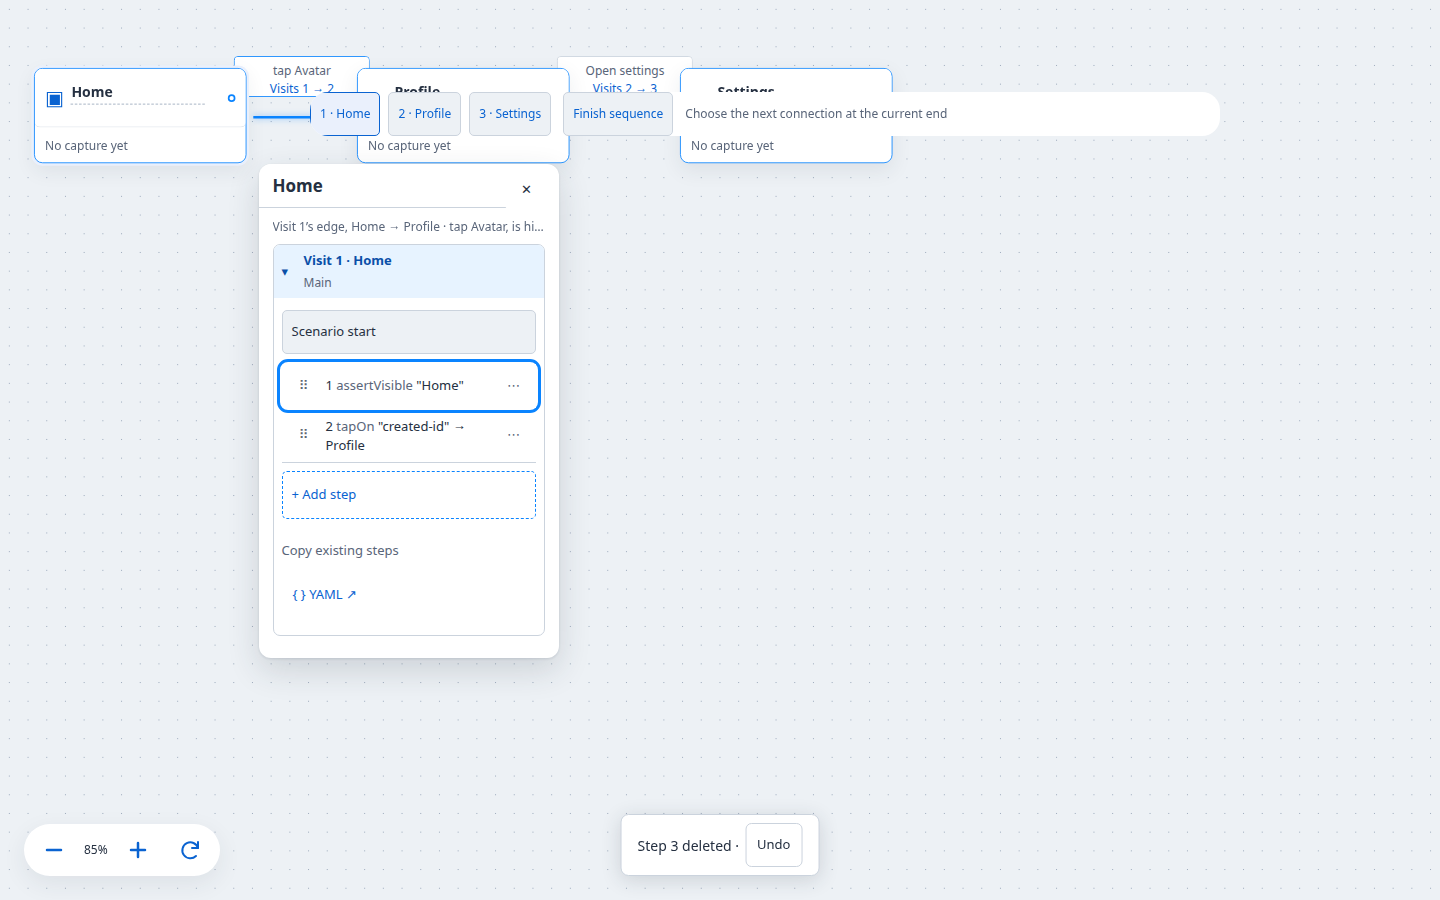
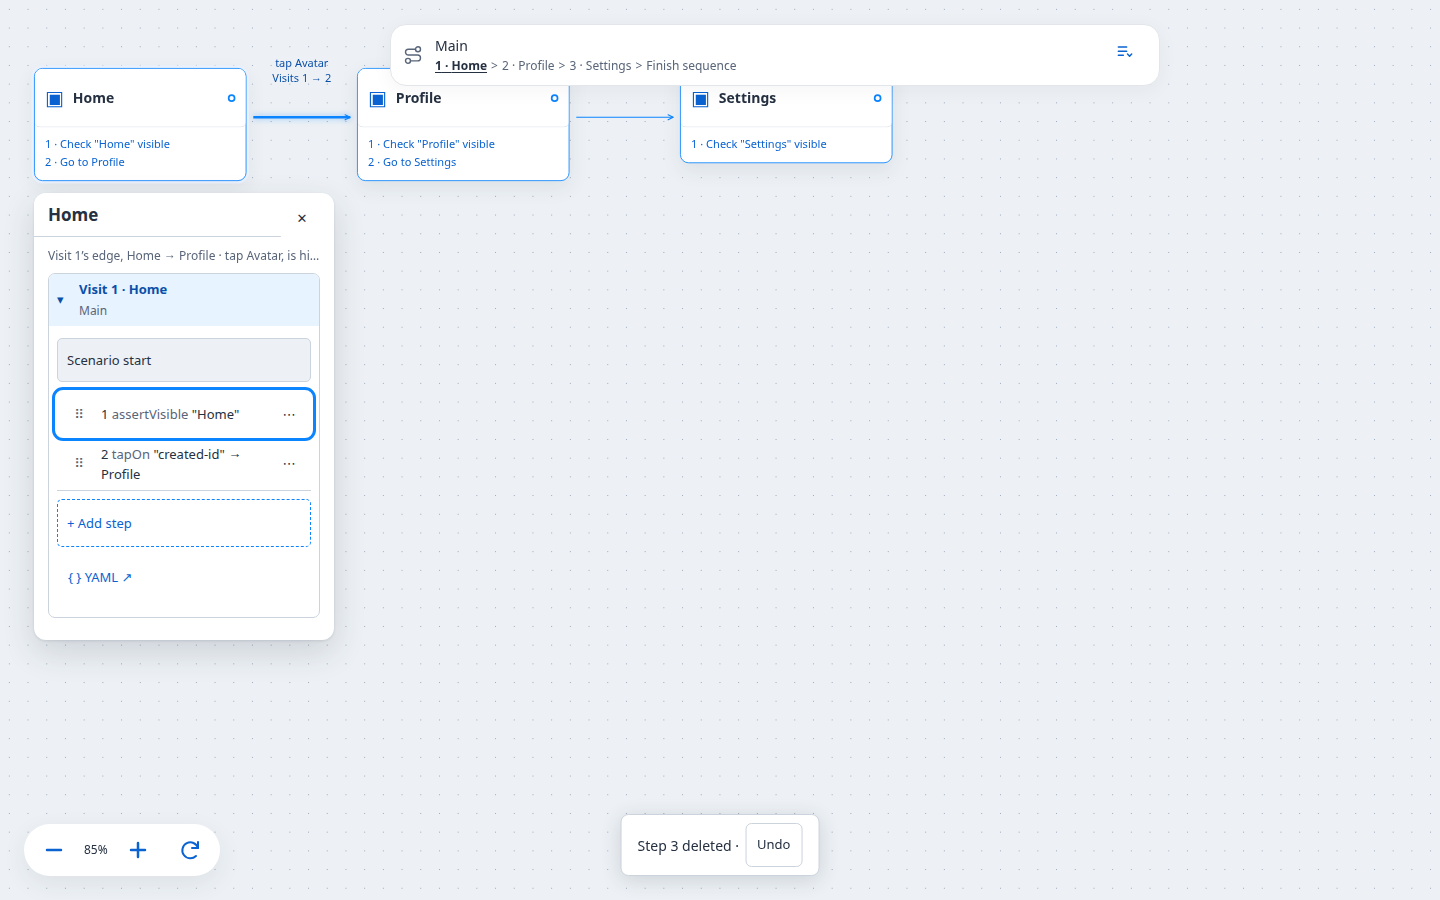
fix: drop script Undo on scenario change and refresh the menu walk
Switching scenarios clears the script Undo snapshot so it cannot replace
another scenario's scripts. The browser walk opens the step menu with
ArrowRight and Enter, then uses End and ArrowDown instead of Tab.

Changed region(s): [[0.0312, 0.0311, 0.6562, 0.7467], [0.0312, 0.0933, 0.0938, 0.1244], [0.0625, 0.6222, 0.0938, 0.6533]]

diff --git a/tests/inspector-a11y-ui.test.ts b/tests/inspector-a11y-ui.test.ts
@@ -32,6 +32,24 @@ function legacyCanvas(linked:boolean):CanvasGraph{
  };
 }
 const hostScenario={id:'scenario-host',name:'Legacy host',authoring:'canvas' as const,steps:[],inputs:{},parameters:{},enabledHandlerIds:[]};
+const scriptAnchor={index:0,fingerprint:'draft' as const};
+function scriptCanvas():CanvasGraph{
+ return {
+  screens:[
+   {id:'home',title:'Home',x:0,y:0,tests:[check('home-a','Home','Home')]},
+   {id:'other',title:'Other',x:400,y:0,tests:[check('other-b','Other','Other')]},
+  ],
+  edges:[],
+  paths:[
+   {id:'path-a',name:'Alpha',scenarioId:'scenario-a',screenId:'home',edgeIds:[],visits:[{id:'visit-a',operationIds:['home-a']}]},
+   {id:'path-b',name:'Beta',scenarioId:'scenario-b',screenId:'other',edgeIds:[],visits:[{id:'visit-b',operationIds:['other-b']}]},
+  ],
+ };
+}
+const scriptScenarios=[
+ {id:'scenario-a',name:'Alpha',authoring:'canvas' as const,pathId:'path-a',steps:[],inputs:{},parameters:{},enabledHandlerIds:[],scripts:[{id:'script-a',label:'Run script',source:'alpha-script',beforeStep:scriptAnchor}]},
+ {id:'scenario-b',name:'Beta',authoring:'canvas' as const,pathId:'path-b',steps:[],inputs:{},parameters:{},enabledHandlerIds:[],scripts:[{id:'script-b',label:'Run script',source:'beta-script',beforeStep:scriptAnchor}]},
+];
 
 async function journey(work:(ui:{
  document:Document;
@@ -42,7 +60,7 @@ async function journey(work:(ui:{
  holdNext:()=>void;
  failNext:(index?:number)=>void;
  settle:()=>Promise<void>;
-})=>Promise<void>,legacy?:'stay'|'linked'){
+})=>Promise<void>,legacy?:'stay'|'linked'|'scripts'){
  const directory=await mkdtemp(join(tmpdir(),'tnt-a11y-'));
  let fail=false;let failIndex=3;let hold=false;let returnRunning=false;let releaseHold:(()=>void)|undefined;
  const service=createScenarios({root:directory,runner:createRunner({artifactDirectory:directory,execute:async(_file,args)=>({stdout:args.includes('list')?JSON.stringify({devices:{iOS:[{udid:deviceId,name:'iPhone',state:'Booted',isAvailable:true}]}}):'/app',stderr:''})}),maestro:{version:async()=>'2.11.0',run:async({directory:dir,flow,signal})=>{
@@ -55,7 +73,7 @@ async function journey(work:(ui:{
   await writeFile(join(dir,'commands.json'),JSON.stringify(commands.map((command:any,index:number)=>({command:{[command==='back'?'backPressCommand':command==='launchApp'||command.launchApp?'launchAppCommand':command.tapOn?'tapOnElement':command.inputText?'inputTextCommand':'assertConditionCommand']:{}},metadata:{depth:0,status:failing&&index===failedAt?'FAILED':failing&&index>failedAt?'SKIPPED':'COMPLETED',error:failing&&index===failedAt?{message:'Assertion failed at visit 3'}:undefined}}))));
   return {code:failing?1:0,log:'Simulator boundary fixture',cleanup:{verified:true,detail:'Fixture exited'}};
  }}});
- const canvas:CanvasGraph=legacy?legacyCanvas(legacy==='linked'):{
+ const canvas:CanvasGraph=legacy==='scripts'?scriptCanvas():legacy?legacyCanvas(legacy==='linked'):{
   screens:[
    {id:'1',title:'Home',x:0,y:0,tests:[{id:'home-ready',label:'Home',role:'assertion',reference,check:{visibility:'visible',target:'text',match:'exact',value:'Home'}},{id:'go-2',label:'Go 2',role:'action',reference,tap:{target:'text',match:'exact',value:'Go 2'}},{id:'stay',label:'Stay',role:'action',reference,tap:{target:'text',match:'exact',value:'Stay'}}]},
    {id:'2',title:'Mid',x:400,y:0,tests:[{id:'mid-ready',label:'Mid',role:'assertion',reference,check:{visibility:'visible',target:'text',match:'exact',value:'Mid'}},{id:'go-3',label:'Go 3',role:'action',reference,tap:{target:'text',match:'exact',value:'Go 3'}}]},
@@ -69,8 +87,9 @@ async function journey(work:(ui:{
  };
  const blank={screens:[],edges:[],paths:[]};
  const yaml=writeChecks('appId: com.example.App\n---\n- launchApp\n',blank,canvas);
- const saved=await service.save({name:'A11y keyboard',yaml,canvas:refreshChecks(canvas,yaml),scenarios:legacy?[hostScenario]:[]});
- if(legacy)await service.saveView(saved.id,{format:1,pathId:'route',scenarioId:hostScenario.id,scenarioName:hostScenario.name,canvas:{selectedScreenId:'home',selectedVisitId:'visit-1',zoom:.85,scrollLeft:0,scrollTop:0}});
+ const saved=await service.save({name:'A11y keyboard',yaml,canvas:refreshChecks(canvas,yaml),scenarios:legacy==='scripts'?scriptScenarios:legacy?[hostScenario]:[]});
+ if(legacy==='scripts')await service.saveView(saved.id,{format:1,pathId:'path-a',scenarioId:'scenario-a',scenarioName:'Alpha',canvas:{selectedScreenId:'home',selectedVisitId:'visit-a',zoom:.85,scrollLeft:0,scrollTop:0}});
+ else if(legacy)await service.saveView(saved.id,{format:1,pathId:'route',scenarioId:hostScenario.id,scenarioName:hostScenario.name,canvas:{selectedScreenId:'home',selectedVisitId:'visit-1',zoom:.85,scrollLeft:0,scrollTop:0}});
  const dom=new JSDOM('<div id="root"></div>');const document=dom.window.document;const window=dom.window as unknown as Window&typeof globalThis;
  const keys=['window','document','HTMLElement','Event','ResizeObserver','IS_REACT_ACT_ENVIRONMENT','fetch'];
  const previous=keys.map(key=>[key,Object.getOwnPropertyDescriptor(globalThis,key)] as const);
@@ -95,6 +114,7 @@ async function journey(work:(ui:{
    if(path.endsWith('/draft/discard'))return Response.json(await service.discardDraft(id,body.expectedDraftRevision));
    if(path.endsWith('/draft'))return Response.json(await service.saveDraft(id,body));
    if(path==='/api/canvas/references')return Response.json(await service.references(body));
+   if(path.startsWith('/api/scripts/trust'))return Response.json({scripts:[]});
    return Response.json(await service.workspace(path.slice('/api/workspaces/'.length)));
   }catch(error){return Response.json({error:error instanceof Error?error.message:'Failed'},{status:400});}
  };
@@ -319,5 +339,20 @@ test('a persisted focused visit step that becomes a legacy stay row keeps one re
  assert.equal(row(document,'profile').querySelector('.destination-warning p')?.textContent,warning('open Profile'));
  assertReachableStop(document,'home-ready');
 },'linked'));
+
+test('switching scenarios clears script Undo and leaves the other scenario scripts in place',()=>journey(async({document,click})=>{
+ await inspectScreen(document,{title:'Home'},{number:1});
+ assert.match(document.querySelector('[data-script-id="script-a"]')?.textContent??'',/alpha-script/);
+ await act(async()=>document.querySelector<HTMLButtonElement>('[aria-label="Script actions Run script"]')!.click());
+ await click('Delete Run script');
+ assert.match(document.querySelector('.script-undo')?.textContent??'',/Run script deleted/);
+ assert.equal(document.querySelector('[data-script-id="script-a"]'),null);
+ await click('Beta');
+ await inspectScreen(document,{title:'Other'},{number:1});
+ assert.equal(document.querySelector('.script-undo'),null);
+ assert.match(document.querySelector('[data-script-id="script-b"]')?.textContent??'',/beta-script/);
+ assert.equal(document.querySelector('[data-script-id="script-a"]'),null);
+ assert.equal(document.body.textContent?.includes('alpha-script'),false);
+},'scripts'));
 
 });

diff --git a/src/canvas.tsx b/src/canvas.tsx
@@ -429,8 +429,9 @@ export function CanvasEditor({graph,onChange,catalog,diagnostics,pathId,onPathCh
  function endDrag(){dragging.current=undefined;setDropTarget(undefined);}
  const discardedVisit=useRef('');
  useEffect(()=>{if(newStep||!discardedVisit.current)return;const visitId=discardedVisit.current;discardedVisit.current='';Array.from(document.querySelectorAll<HTMLElement>('[data-visit-id]')).find(element=>element.dataset.visitId===visitId)?.querySelector<HTMLButtonElement>('.add-visit-step')?.focus();},[newStep]);
- const [expandedRow,setExpandedRow]=useState('');const [openScriptId,setOpenScriptId]=useState('');const [inspectorYielded,setInspectorYielded]=useState(false);const [panelOpen,setPanelOpen]=useState(false);const scriptOpener=useRef<HTMLElement|null>(null);const restoreScriptFocus=useRef(false);const scenarioTrigger=useRef<HTMLButtonElement>(null);const scenarioPanelId=useId();const panelOpenRef=useRef(false);const notifyScenarioPanel=useRef(onScenarioPanelChange);panelOpenRef.current=panelOpen;notifyScenarioPanel.current=onScenarioPanelChange;const [scriptUndo,setScriptUndo]=useState<{text:string;rows:ScriptRow[];kind:'deleted'|'moved';rowId:string;index:number;at:number}|undefined>();const [announcement,setAnnouncement]=useState('');
+ const [expandedRow,setExpandedRow]=useState('');const [openScriptId,setOpenScriptId]=useState('');const [inspectorYielded,setInspectorYielded]=useState(false);const [panelOpen,setPanelOpen]=useState(false);const scriptOpener=useRef<HTMLElement|null>(null);const restoreScriptFocus=useRef(false);const scenarioTrigger=useRef<HTMLButtonElement>(null);const scenarioPanelId=useId();const panelOpenRef=useRef(false);const notifyScenarioPanel=useRef(onScenarioPanelChange);panelOpenRef.current=panelOpen;notifyScenarioPanel.current=onScenarioPanelChange; const [scriptUndo,setScriptUndo]=useState<{text:string;rows:ScriptRow[];kind:'deleted'|'moved';rowId:string;index:number;at:number}|undefined>();const [announcement,setAnnouncement]=useState('');
  const [stepListFocus,setStepListFocus]=useState<{visitId:string;id:string}>();
+ useEffect(()=>{setScriptUndo(undefined);},[scenarioId]);
  const [nodeInfoId,setNodeInfoId]=useState('');const [yamlHost,setYamlHost]=useState(false);const [yamlOpen,setYamlOpen]=useState(false);const yamlOpener=useRef<HTMLButtonElement|null>(null);
  let displayGraph=graph;try{if(graph&&yaml)displayGraph=refreshChecks(graph,yaml);}catch{ /* Retain graph while invalid YAML is repaired. */ }
  graph=displayGraph;

diff --git a/docs/inspector-verification.md b/docs/inspector-verification.md
@@ -21,6 +21,7 @@ The #51 edits stay in the inspector UI, these tests, and this review. This branc
 - running keeps one list stop and arrow navigation without unlocking edits
 - edit tab order is observed by walking focus: matching, then Destination, then Pick from screen, then Open YAML, then Close. The test does not assert CSS ancestry.
 - a persisted legacy stay row before a visit step, and a focused visit step that becomes a stay row, each leave one reachable summary stop. Warning and destination controls stay on the legacy rows. The in-memory missing-destination UI cases remain as a supplement.
+- deleting a script shows Undo, and switching scenarios removes that Undo without replacing the other scenario's script.
 - shortcut suppression in a focused selector; failed run announces `role="status"` / `role="alert"`
 
 `tests/match-by-ui.test.ts` keeps the original assertion that Pick lives in `.element-field` beside the selector. A separate test checks that Tab from Destination focuses Pick, and the next Tab focuses Done. Existing floating-inspector and run-state UI journeys remain green.
@@ -29,15 +30,15 @@ The #51 edits stay in the inspector UI, these tests, and this review. This branc
 
 Reviewed with the real `CanvasEditor` fixture via Vite + Chrome headless (`scripts/inspector-browser-review.mjs`) on Linux, Node 22. Metrics: `docs/evidence/inspector-a11y-metrics.json`.
 
-Desktop shots open the named screen with Enter on its article, then Tab to the step summary. The keyboard journey uses `page.keyboard` for navigation and activation. It does not call `focus()`, set control values, or click controls. The contrast shot still opens the step menu in the page so Delete can be measured; that mutation is not part of the keyboard journey.
+Desktop shots open the named screen with Enter on its article, then Tab to the step summary. The keyboard journey uses `page.keyboard` for navigation and activation, including ArrowDown and End inside the step menu. It does not call `focus()`, set control values, or click controls. The contrast shot clicks the step-menu trigger so the rendered portal menu can be measured. That click is not part of the keyboard journey.
 
 | Shot | Viewport | Recorded |
 | --- | --- | --- |
-| 1440×900 Home | 1440×900, zoom 0.85 | Side **right**, left 259, top 164, inspector width **300**, not clamped. Focused `Edit Check 1`. Outline `rgb(10, 132, 255) solid 3px`. One list stop. |
+| 1440×900 Home | 1440×900, zoom 0.85 | Side **below**, left 34, top 193, inspector width **300**, not clamped. Focused `Edit Check 1`. Outline `rgb(10, 132, 255) solid 3px`. One list stop. |
 | 1280×800 Home | 1280×800, zoom 0.85 | Same placement and focus ring. One list stop. |
-| Settings flip | 1280×800, zoom 1.15 | Side **below**, left 920, top 227, width 300, **not clamped**. Same focus ring. |
-| Profile zoom | 1440×900, zoom 0.5 | Side right, left 347, width **300**. Same focus ring. |
-| Contrast and targets | 1440×900 Home, editing, failed check, draft notice | Rendered contrast below. Focus is not on a summary (`focused: body`), so this shot is not a focus-ring shot. |
+| Settings flip | 1280×800, zoom 1.15 | Side **below**, left 920, top 233, width 300, **not clamped**. Same focus ring. |
+| Profile zoom | 1440×900, zoom 0.5 | Side right, left 347, top 164, width **300**. Same focus ring. |
+| Contrast and targets | 1440×900 Home, editing, failed check, draft notice, step menu open | Rendered contrast below. Focus is the open menu item `Move check 1 down`, outside the inspector, so this shot is not a focus-ring shot. |
 | Clamp | 420×520, Home parked far right/bottom (`clamp=1`) | **`clamped: true`**, side right, left 112, top 164, width 300, viewport 420×520. Focus was not moved; outline is empty. |
 | Keyboard journey | 1440×900 Home | Trace below. The screenshot is the end state after delete. |
 
@@ -47,16 +48,16 @@ Samples are computed style of elements that are actually in the inspector. Shots
 
 | Role | Paint | Ratio |
 | --- | --- | --- |
-| Danger (failed step) | `#b3261e` on `#fdecea` | 5.72 |
+| Danger (failed step summary) | `#b3261e` on `#edf1f5` | 5.76 |
 | Warning (draft notice) | `#8a4b00` on `#fff4e5` | 6.26 |
 
 Token names are recorded separately and are not treated as the contrast result.
 
 ### Targets at least 44px
 
-Contrast shot, with the step menu open: close 44×44, summary 254×47, Add step 254×48, Destination 254×44, Pick from screen 254×44, Done 254×44, Open YAML 86×44, Match by 124×44, Delete 104×44.
+Contrast shot, with the portal step menu open: close 44×44, summary 254×47, Add step 254×48, Destination 254×44, Pick from screen 254×44, Done 254×44, Open YAML 86×44, Match by 124×44, Delete 150×44.
 
-On shots that are not editing, Destination, Pick, Done and Match by are absent (recorded as null). Delete inside a closed ⋯ menu still has a box in this Chrome (44×57). The open-menu size is the one that counts.
+On shots that are not editing, Destination, Pick, Done, Match by and Delete are absent (recorded as null). Delete is measured from the open portal menu, not from a closed trigger.
 
 ### Keyboard-only journey
 
@@ -64,11 +65,11 @@ Recorded under `keyboard` in the metrics:
 
 1. Enter on Screen Home, Tab to the list. One stop. ArrowDown, ArrowUp and End moved Check 1 ↔ Action 1.
 2. Tab to Add step, Enter, Enter to create a Tap. Shift+Tab, ArrowRight to Element, type `created-id`.
-3. Tab order from the selector: matching → type → **destination → Pick from screen**. Pick's box stays with the element field (top 294, directly under the selector at 244) and above Destination (top 462).
+3. Tab order from the selector: matching → type → **destination → Pick from screen**. Pick's box stays with the element field (top 309, directly under the selector at 259) and above Destination (top 477).
 4. Shift+Tab back to the focused Destination select. ArrowDown twice changed that select from empty to `profile`. Enter on Done committed the step.
 5. The created row's summary text is `3 tapOn "created-id" → Profile`. Ordered ids were `home-ready`, `avatar`, then the new id.
-6. On that focused row: ArrowRight, Enter, Tab to **Move up**, Enter. Order changed to `home-ready`, the new id, `avatar`.
-7. End, ArrowRight, Enter, Enter on `Delete action 2` (the last row, `avatar`). Remaining ids were `home-ready` and the created id. Focus landed on `+ Add step`, then Shift+Tab / Tab returned to `Edit Check 1`. Exactly one summary had `tabIndex=0`.
+6. On that focused row: ArrowRight, Enter to open the menu, End, ArrowDown back to **Move action 2 up**, Enter. Order changed to `home-ready`, the new id, `avatar`.
+7. End, ArrowRight, Enter, End onto `Delete action 2`, Enter. Remaining ids were `home-ready` and the created id. Focus landed on `+ Add step`, then Shift+Tab / Tab returned to `Edit Check 1`. Exactly one summary had `tabIndex=0`.
 
 ### Screenshots
 
@@ -88,7 +89,7 @@ Recorded under `keyboard` in the metrics:
 
 ## Keyboard-only walkthrough (recorded)
 
-The trace above is the walkthrough. It creates a step, links Destination to Profile from the keyboard (the new row shows Profile), reorders that row with its own Move up, and deletes the last row (`avatar`) while the created step remains. Focus can return to the one list tab stop from the keyboard. Pick stays visually with the element field and is reached after Destination.
+The trace above is the walkthrough. It creates a step, links Destination to Profile from the keyboard (the new row shows Profile), reorders that row from its own menu with End and ArrowDown, and deletes the last row (`avatar`) with End. Focus can return to the one list tab stop from the keyboard. Pick stays visually with the element field and is reached after Destination.
 
 ## Verification
 
